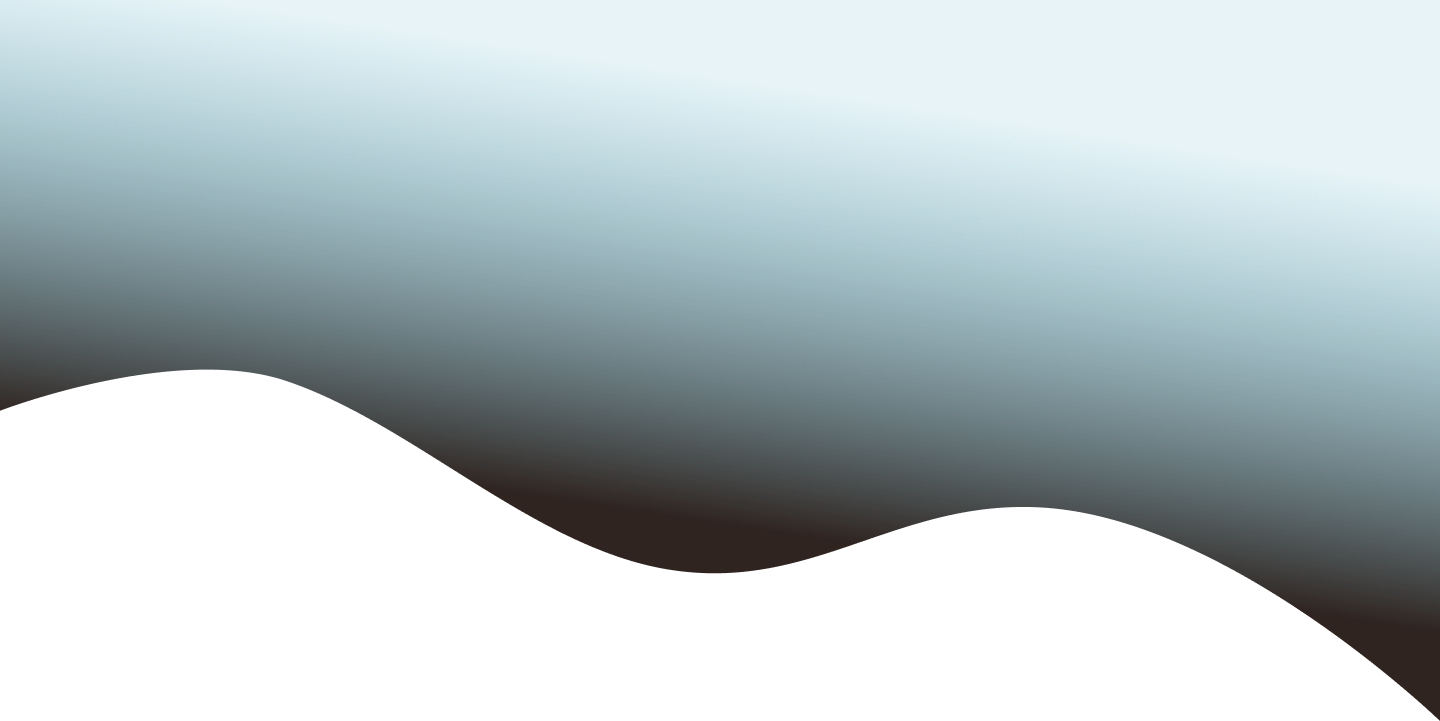
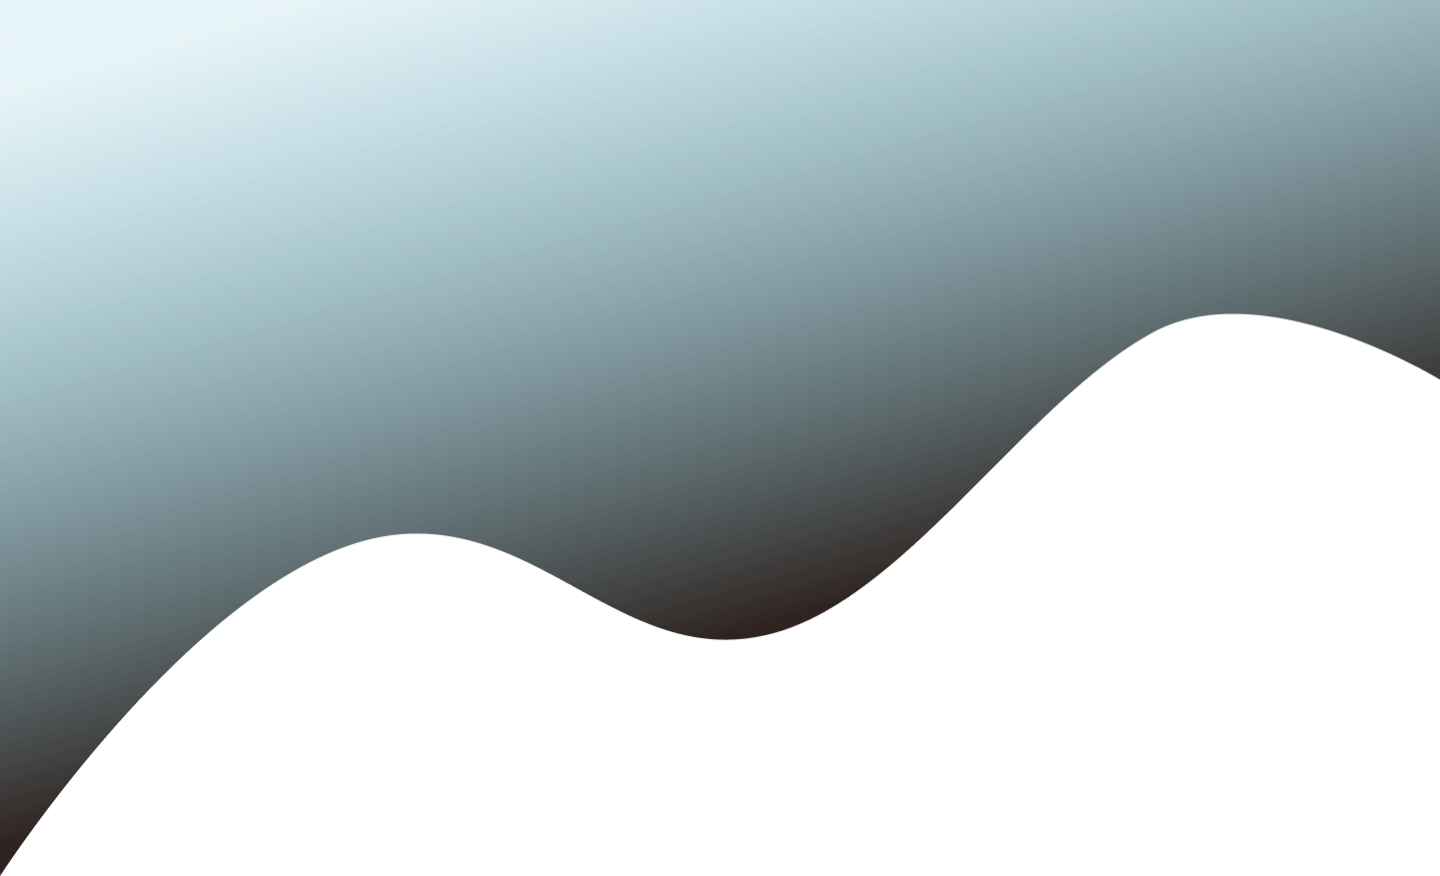
update ke2

diff --git a/style.css b/style.css
@@ -51,13 +51,13 @@ body {
 
 .logo {
     position: absolute;
-    top: 10px;
-    left: 60px;
+    top: -90px;
+    left: 40px;
     z-index: 100;
 }
 
 .logo-img {
-    height: 200px;
+    height: 300px;
 }
 
 .nav-links {
@@ -139,7 +139,7 @@ body {
     background-repeat: no-repeat;
     z-index: 1;
     pointer-events: none;
-    opacity: 0.8; /* Adjust if it's too bright */
+    opacity: 0.8;
 }
 
 .hero {
@@ -204,6 +204,26 @@ body {
     filter: blur(50px);
 }
 
+.middle-section {
+    width: 100%;
+    position: relative;
+}
+
+/* Middle Section Overlay */
+.middle-overlay {
+    position: absolute;
+    top: 0;
+    left: 0;
+    width: 100%;
+    height: 100%;
+    background-image: url('assets/overlay2.png');
+    background-size: cover;
+    background-position: center;
+    background-repeat: no-repeat;
+    z-index: 1;
+    pointer-events: none;
+}
+
 /* Stats Strip */
 .stats-strip {
     display: flex;
@@ -213,6 +233,8 @@ body {
     border-top: 1px solid rgba(255,255,255,0.05);
     border-bottom: 1px solid rgba(255,255,255,0.05);
     background: rgba(47, 36, 32, 0.3);
+    position: relative;
+    z-index: 2;
 }
 
 .stat-item {
@@ -274,6 +296,8 @@ body {
 .features {
     padding: 120px 80px;
     text-align: center;
+    position: relative;
+    z-index: 2;
 }
 
 .section-header {
@@ -341,6 +365,23 @@ body {
     align-items: center;
     padding: 120px 80px;
     gap: 80px;
+    position: relative;
+    z-index: 2;
+}
+
+/* Miner Section Overlay */
+.miner-overlay {
+    position: absolute;
+    top: 0;
+    left: 0;
+    width: 100%;
+    height: 100%;
+    background-image: url('assets/over.png');
+    background-size: cover;
+    background-position: center;
+    background-repeat: no-repeat;
+    z-index: -1;
+    pointer-events: none;
 }
 
 .miner-image {
@@ -416,6 +457,23 @@ body {
 .expeditions {
     padding: 80px;
     text-align: center;
+    position: relative;
+    z-index: 2;
+}
+
+/* Expeditions Overlay */
+.expeditions-overlay {
+    position: absolute;
+    top: 0;
+    left: 0;
+    width: 100%;
+    height: 100%;
+    background-image: url('assets/overlay3.png');
+    background-size: cover;
+    background-position: center;
+    background-repeat: no-repeat;
+    z-index: -1;
+    pointer-events: none;
 }
 
 .expeditions h2 {
@@ -524,15 +582,31 @@ body {
     color: var(--color-text-muted);
 }
 
+/* Bottom Section Overlay */
+.bottom-section {
+    position: relative;
+    width: 100%;
+}
+
+.bottom-overlay {
+    position: absolute;
+    top: 0;
+    left: 0;
+    width: 100%;
+    height: 100%;
+    background-image: url('assets/bgg.png');
+    background-size: cover;
+    background-position: bottom center;
+    background-repeat: no-repeat;
+    z-index: -1;
+    pointer-events: none;
+}
+
 /* Footer */
 .site-footer {
     position: relative;
     padding: 150px 80px 40px;
     margin-top: 100px;
-    background-image: url('assets/bgg.png');
-    background-size: cover;
-    background-position: bottom center;
-    background-repeat: no-repeat;
 }
 
 .footer-content {
@@ -545,7 +619,7 @@ body {
 }
 
 .footer-logo {
-    height: 100px;
+    height: 200px;
 }
 
 .footer-links {

diff --git a/index.html b/index.html
@@ -47,8 +47,11 @@
             </div>
         </section>
 
-        <!-- Stats Strip -->
-        <section class="stats-strip">
+        <div class="middle-section">
+            <div class="middle-overlay"></div>
+
+            <!-- Stats Strip -->
+            <section class="stats-strip">
             <div class="stat-item">
                 <div class="avatars">
                     <img src="https://i.pravatar.cc/150?u=1" alt="User">
@@ -117,9 +120,11 @@
                 </div>
             </div>
         </section>
+        </div>
 
         <!-- Miner Section -->
         <section class="miner-section">
+            <div class="miner-overlay"></div>
             <div class="miner-image">
                 <div class="glow-bg-cyan"></div>
                 <img src="assets/single_phone.png" alt="Mino Miner App">
@@ -151,6 +156,7 @@
 
         <!-- Habit Expeditions -->
         <section class="expeditions">
+            <div class="expeditions-overlay"></div>
             <h2>Habit Expeditions</h2>
             <p>Ready for a real challenge? Take on one of the 7/14/21-day quests and grow together.</p>
             
@@ -185,8 +191,11 @@
             </div>
         </section>
 
-        <!-- Testimonials -->
-        <section class="testimonials">
+        <div class="bottom-section">
+            <div class="bottom-overlay"></div>
+
+            <!-- Testimonials -->
+            <section class="testimonials">
             <div class="testimonial-card">
                 <div class="stars"><i class="fas fa-star"></i><i class="fas fa-star"></i><i class="fas fa-star"></i><i class="fas fa-star"></i><i class="fas fa-star"></i></div>
                 <p>"Mino turned what was a tedious chore into an absolute blast. The reward system keeps me coming back every single morning!"</p>
@@ -227,6 +236,7 @@
                 &copy; 2026 Mino App. All rights reserved.
             </div>
         </footer>
+        </div>
     </div>
 </body>
 </html>